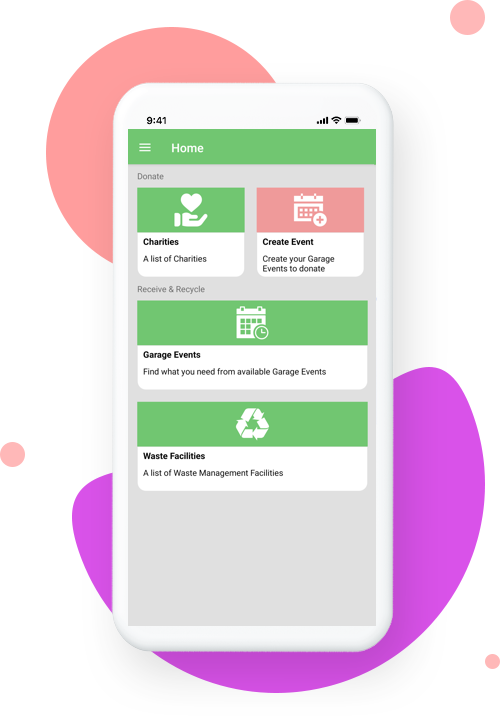
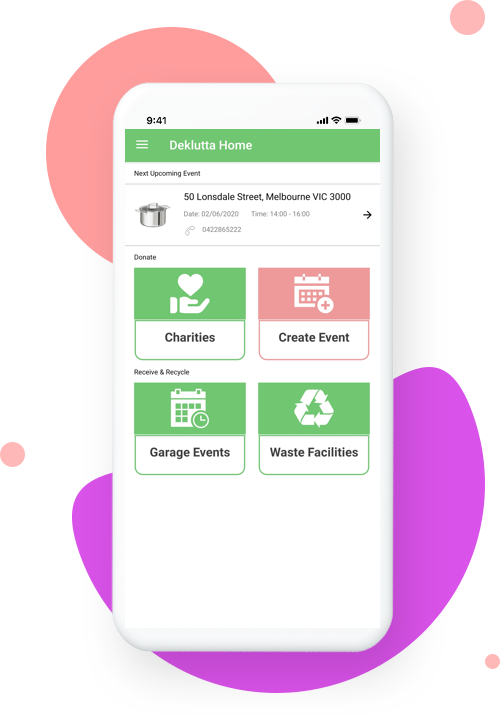
Home screen and testimony updated

Changed region(s): [[0.24, 0.1844, 0.78, 0.8911]]

diff --git a/index.html b/index.html
@@ -151,7 +151,7 @@
                         <div class="row">
                             <div class="col-lg-10 col-md-10">
                                 <div class="section-tittle">
-                                    <h2>Some of the best features Of Our App!</h2>
+                                    <h2>Some of the best features Of our App!</h2>
                                 </div>
                             </div>
                         </div>
@@ -211,6 +211,25 @@
             </div>
         </section>
         <!-- Best Features End -->
+
+        <div class="slider-area ">
+            <div class="slider-active">
+                <div >
+                    <div class="container">
+                        <div class="row d-flex align-items-center">
+                            <div>
+                                <div class="hero__caption">
+                                    <h1 data-animation="fadeInUp" data-delay=".6s">Our Success Story</h1>
+                                    <h3 style="text-align:left;">David Melo, Melbourne City</h3>
+                                    <p data-animation="fadeInUp" data-delay=".8s" style="text-align:justify;">This application is great, it is a very useful tool for students who are concentrated on their studies and can’t work full time making them live at the edge of their finance’s month to month. Few days ago a friend of mine who is going through a harsh time due to the corona virus crisis, his computer broke and couldn’t work on his assignments, but another student who had a spare computer didn’t hesitate to give it to him through a chain of contacts without asking for anything in return. This is what this app is about people helping people in difficult times such as what we are living now. It is good to see that instead of throwing away what is not no longer used we now have the opportunity to help someone who might need it and it might mean the world for them.</p>
+                                </div>
+                            </div>
+                        </div>
+                    </div>
+                </div>
+            </div>
+        </div>
+
         <!-- Services Area Start -->
         <!-- <section class="service-area sky-blue section-padding2">
             <div class="container"> -->
@@ -218,7 +237,7 @@
                 <!-- <div class="row d-flex justify-content-center">
                     <div class="col-lg-6">
                         <div class="section-tittle text-center">
-                            <h2>How Can We HelpYour<br>with Appco!</h2>
+                            <h2>Testimony</h2>
                         </div>
                     </div>
                 </div> -->
@@ -231,11 +250,11 @@
                             </div>
                             <div class="service-cap">
                                 <h4><a href="#">Easily Manage</a></h4>
-                                <p>Sorem spsum dolor sit amsectetur adipisclit, seddo eiusmod tempor incididunt ut laborea.</p>
+                                <p>This application is great, it is a very useful tool for students who are concentrated on their studies and can’t work full time making them live at the edge of their finance’s month to month. Few days ago a friend of mine who is going through a harsh time due to the corona virus crisis, his computer broke and couldn’t work on his assignments, but another student who had a spare computer didn’t hesitate to give it to him through a chain of contacts without asking for anything in return. This is what this app is about people helping people in difficult times such as what we are living now. It is good to see that instead of throwing away what is not no longer used we now have the opportunity to help someone who might need it and it might mean the world for them.</p>
                             </div>
                         </div>
-                    </div>
-                    <div class="col-xl-4 col-lg-4 col-md-6">
+                    </div> -->
+                    <!-- <div class="col-xl-4 col-lg-4 col-md-6">
                         <div class="services-caption active text-center mb-30">
                             <div class="service-icon">
                                 <span class="flaticon-pay"></span>
@@ -256,8 +275,8 @@
                                 <p>Sorem spsum dolor sit amsectetur adipisclit, seddo eiusmod tempor incididunt ut laborea.</p>
                             </div>
                         </div>
-                    </div>
-                </div>
+                    </div> -->
+                <!-- </div>
             </div>
         </section> -->
         <!-- Services Area End -->
